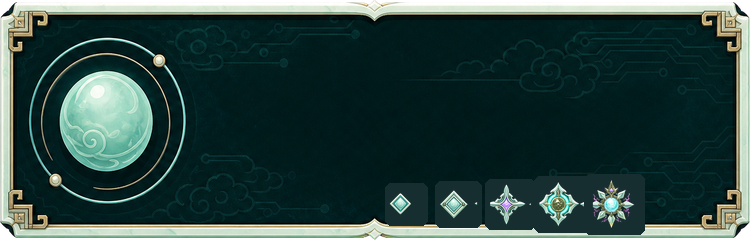
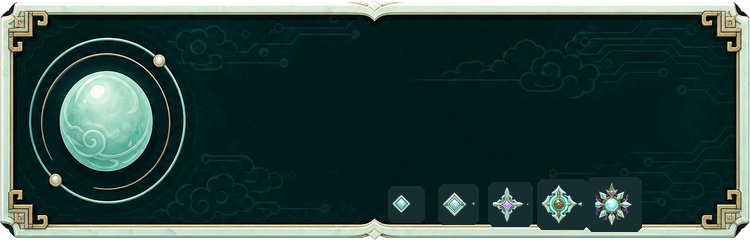
Reduce cultivation emblem sizes

Changed region(s): [[0.5213, 0.7583, 0.8587, 0.9917]]

diff --git a/Source/import_realm_emblems.py b/Source/import_realm_emblems.py
@@ -42,7 +42,7 @@ def render_preview(emblems: list[Image.Image]) -> None:
     # Preview the exact in-game layout at 3x scale for readable QA.  The small
     # dark backplates cover the legacy diamond outlines baked into panel v1.
     centers = [406, 458, 510, 562, 614]
-    sizes = [36, 41, 45, 50, 54]
+    sizes = [30, 35, 39, 44, 48]
     center_y = 204
     draw = ImageDraw.Draw(panel, "RGBA")
     for center, size, emblem in zip(centers, sizes, emblems):

diff --git a/Source/YunjianziCultivation.cs b/Source/YunjianziCultivation.cs
@@ -548,7 +548,7 @@ namespace Yunjianzi
 
         private void DrawRealmEmblems(Rect outer)
         {
-            float[] sizes = { 12f, 13.5f, 15f, 16.5f, 18f };
+            float[] sizes = { 10f, 11.5f, 13f, 14.5f, 16f };
             for (int i = 1; i <= 5; i++)
             {
                 float centerX = outer.x + 135.5f + (i - 1) * 17.3f;
